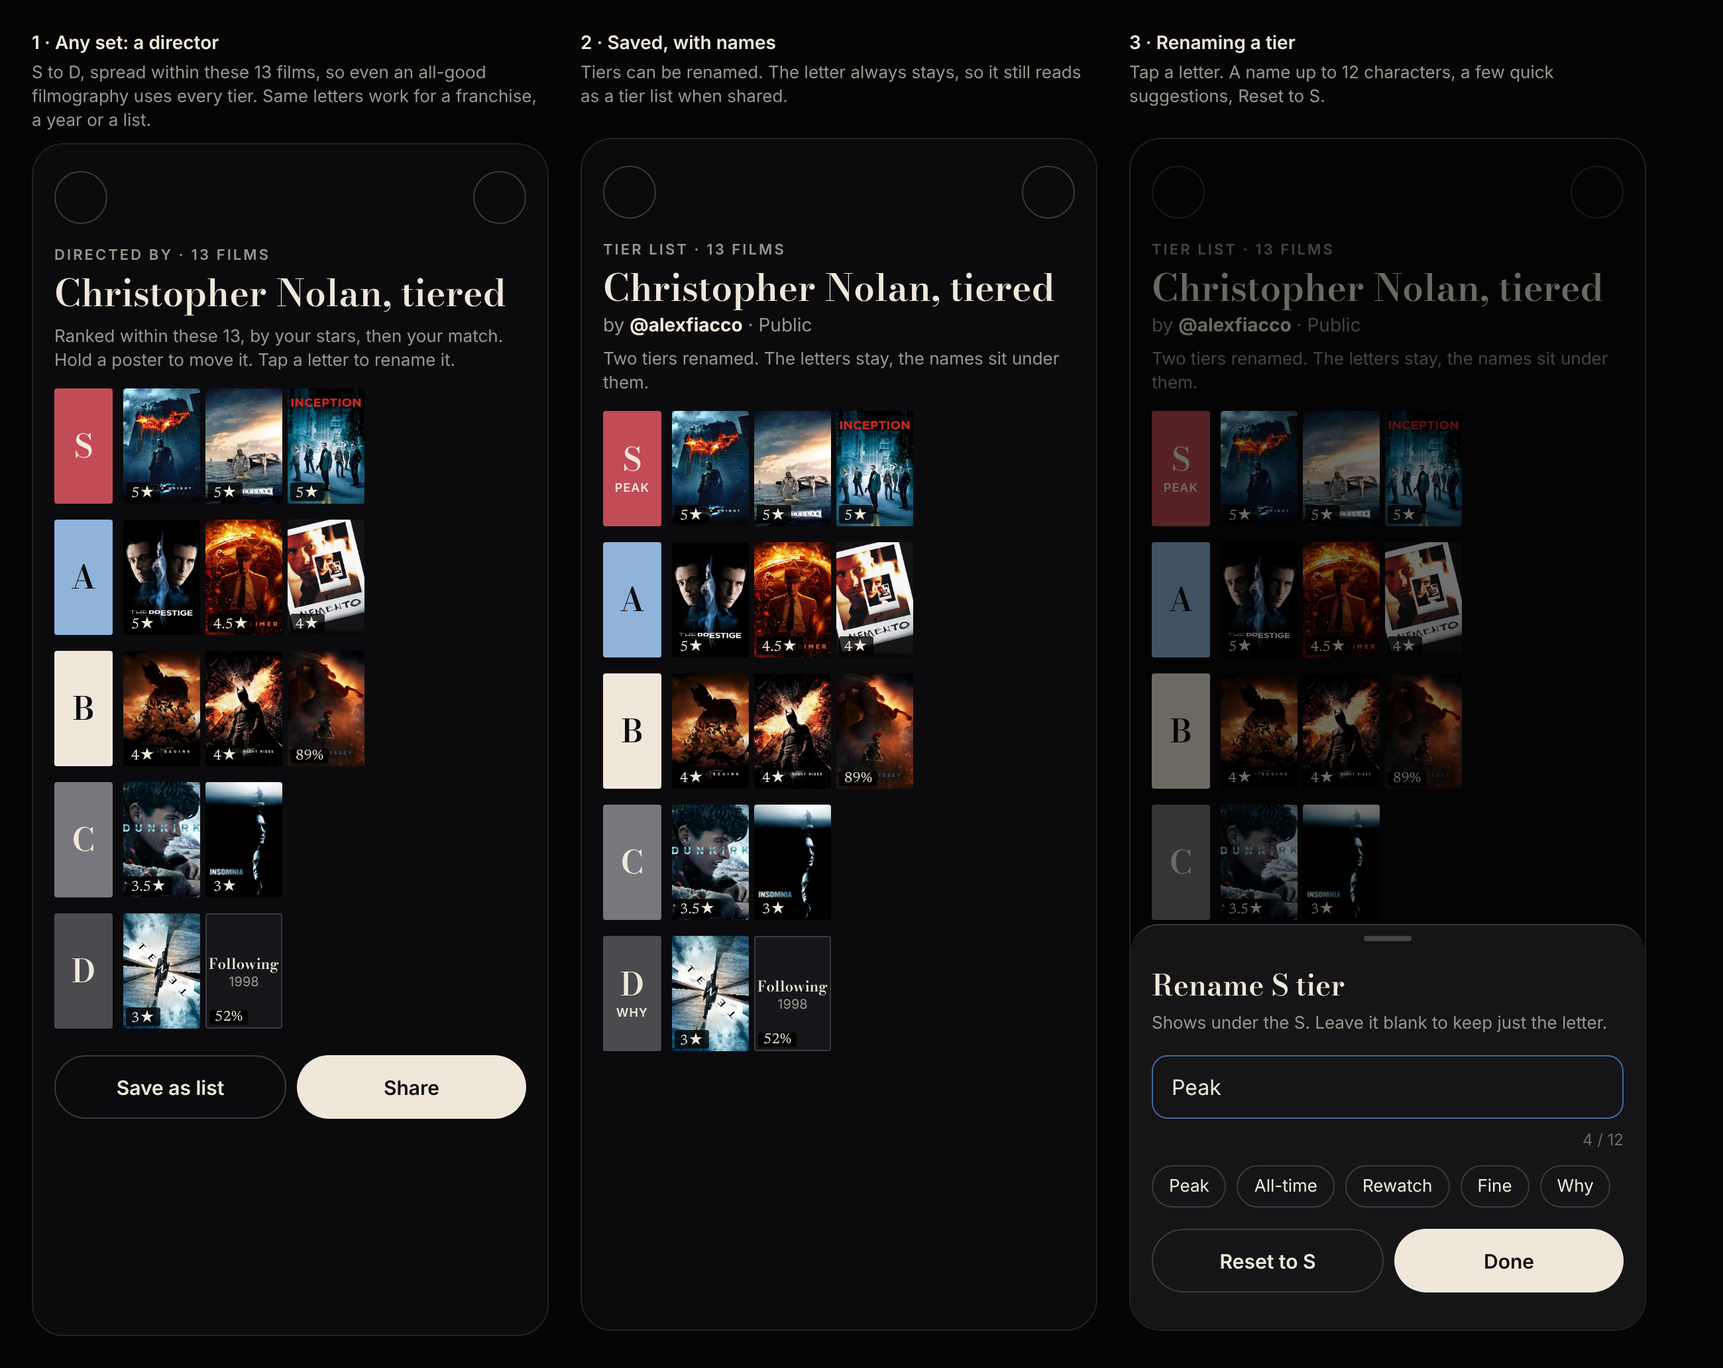
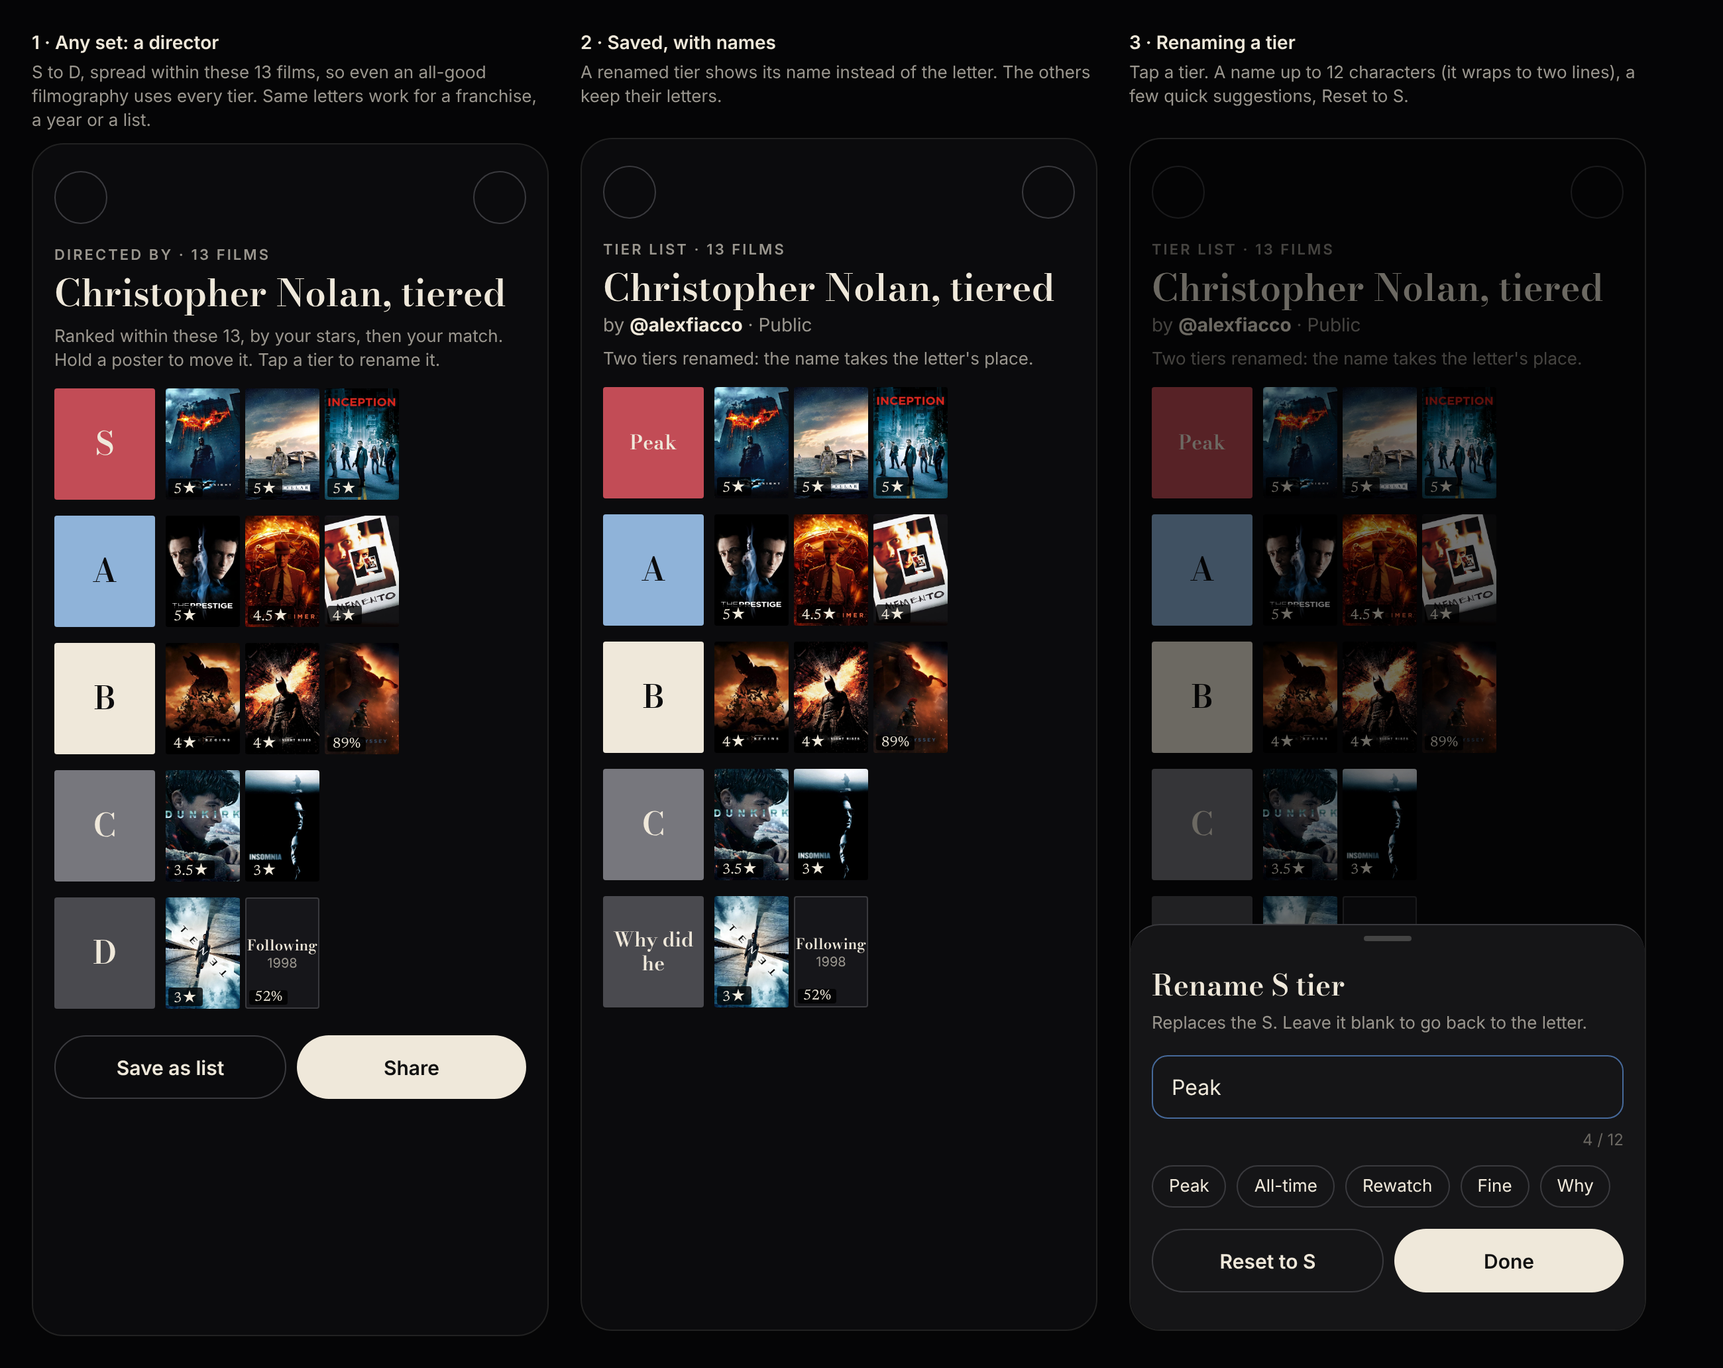
Mock: tier list v5, a renamed tier replaces its letter
Claude-Session: https://claude.ai/code/session_013WRDCFXH8nihP92apJAVW7

diff --git a/mockups/journeys/tier-list-v5.html b/mockups/journeys/tier-list-v5.html
@@ -9,9 +9,9 @@
 .kick{font:600 11px/14px -apple-system;letter-spacing:.14em;color:var(--muted)}h1{font:400 28px/32px BD;margin:6px 0 4px}.by{font-size:14px;color:var(--muted)}.by b{color:var(--ink)}
 .note{font-size:13px;color:var(--muted);margin:8px 0 4px;line-height:18px}
 .tier{display:flex;gap:8px;margin-top:12px;align-items:stretch}
-.lt{width:44px;flex:none;border-radius:2px;display:flex;flex-direction:column;align-items:center;justify-content:center;font:400 24px/28px BD;padding:6px 2px;text-align:center}
-.lt small{display:block;font:600 9px/11px -apple-system;letter-spacing:.06em;margin-top:2px;text-transform:uppercase}
-.ps{display:flex;flex-wrap:wrap;gap:4px;flex:1}.p{width:58px;aspect-ratio:2/3;border-radius:2px;background:#222 center/cover;position:relative}
+.lt{width:76px;flex:none;border-radius:2px;display:flex;flex-direction:column;align-items:center;justify-content:center;font:400 24px/28px BD;padding:6px 2px;text-align:center}
+.lt.w{font:400 15px/18px BD;padding:6px 4px;overflow-wrap:anywhere}
+.ps{display:flex;flex-wrap:wrap;gap:4px;flex:1}.p{width:56px;aspect-ratio:2/3;border-radius:2px;background:#222 center/cover;position:relative}
 .p i{position:absolute;left:2px;bottom:2px;font:400 11px NR;font-style:normal;background:rgba(0,0,0,.78);padding:0 4px;border-radius:2px}
 .p.np{display:flex;flex-direction:column;align-items:center;justify-content:center;font:400 11px BD;text-align:center;border:1px solid var(--line2);background:#16161a}
 .empty{flex:1;border:1px dashed var(--line2);border-radius:6px;display:flex;align-items:center;justify-content:center;font-size:12px;color:var(--faint);min-height:44px}
@@ -23,9 +23,9 @@
 .in{height:48px;border:1px solid #46699a;border-radius:12px;padding:0 14px;display:flex;align-items:center;font-size:16px;margin-bottom:8px}
 .cnt{text-align:right;font-size:12px;color:var(--faint);margin-bottom:12px}
 .sw{display:flex;gap:8px;margin-bottom:16px}.sw span{height:32px;padding:0 12px;border:1px solid var(--line2);border-radius:16px;display:flex;align-items:center;font-size:13px}</style></head><body><div class="grid"><div><p class="cap">1 · Any set: a director<span>S to D, spread within these 13 films, so even an all-good filmography uses every tier. Same letters work for a franchise, a year or a list.</span></p><div class="ph"><div class="page"><div class="top"><div class="c"></div><div class="c"></div></div><div class="kick">DIRECTED BY · 13 FILMS</div><h1>Christopher Nolan, tiered</h1>
-<p class="note">Ranked within these 13, by your stars, then your match. Hold a poster to move it. Tap a letter to rename it.</p><div class="tier"><div class="lt" style="background:#c24c56;color:#efe8da">S</div><div class="ps"><div class="p" style="background-image:url(file:///home/user/CS-Term-Project/mockups/journeys/tier-list-v1-img/darkknight.jpg)"><i>5★</i></div><div class="p" style="background-image:url(file:///home/user/CS-Term-Project/mockups/journeys/tier-list-v1-img/interstellar.jpg)"><i>5★</i></div><div class="p" style="background-image:url(file:///home/user/CS-Term-Project/mockups/journeys/tier-list-v1-img/inception.jpg)"><i>5★</i></div></div></div><div class="tier"><div class="lt" style="background:#8fb3d9;color:#0b0b0d">A</div><div class="ps"><div class="p" style="background-image:url(file:///home/user/CS-Term-Project/mockups/journeys/tier-list-v1-img/prestige.jpg)"><i>5★</i></div><div class="p" style="background-image:url(file:///home/user/CS-Term-Project/mockups/journeys/tier-list-v1-img/oppenheimer.jpg)"><i>4.5★</i></div><div class="p" style="background-image:url(file:///home/user/CS-Term-Project/mockups/journeys/tier-list-v1-img/memento.jpg)"><i>4★</i></div></div></div><div class="tier"><div class="lt" style="background:#efe8da;color:#0b0b0d">B</div><div class="ps"><div class="p" style="background-image:url(file:///home/user/CS-Term-Project/mockups/journeys/tier-list-v1-img/batmanbegins.jpg)"><i>4★</i></div><div class="p" style="background-image:url(file:///home/user/CS-Term-Project/mockups/journeys/tier-list-v1-img/tdkr.jpg)"><i>4★</i></div><div class="p" style="background-image:url(file:///home/user/CS-Term-Project/mockups/journeys/tier-list-v1-img/odyssey.jpg)"><i>89%</i></div></div></div><div class="tier"><div class="lt" style="background:#77777d;color:#efe8da">C</div><div class="ps"><div class="p" style="background-image:url(file:///home/user/CS-Term-Project/mockups/journeys/tier-list-v1-img/dunkirk.jpg)"><i>3.5★</i></div><div class="p" style="background-image:url(file:///home/user/CS-Term-Project/mockups/journeys/tier-list-v1-img/insomnia.jpg)"><i>3★</i></div></div></div><div class="tier"><div class="lt" style="background:#4a4a4f;color:#efe8da">D</div><div class="ps"><div class="p" style="background-image:url(file:///home/user/CS-Term-Project/mockups/journeys/tier-list-v1-img/tenet.jpg)"><i>3★</i></div><div class="p np">Following<br><span style="font:400 10px -apple-system;color:#9a968e">1998</span><i>52%</i></div></div></div>
-<div class="btns"><div class="b">Save as list</div><div class="b cr">Share</div></div></div></div></div><div><p class="cap">2 · Saved, with names<span>Tiers can be renamed. The letter always stays, so it still reads as a tier list when shared.</span></p><div class="ph"><div class="page"><div class="top"><div class="c"></div><div class="c"></div></div><div class="kick">TIER LIST · 13 FILMS</div><h1>Christopher Nolan, tiered</h1><div class="by">by <b>@alexfiacco</b> · Public</div>
-<p class="note">Two tiers renamed. The letters stay, the names sit under them.</p><div class="tier"><div class="lt" style="background:#c24c56;color:#efe8da">S<small>Peak</small></div><div class="ps"><div class="p" style="background-image:url(file:///home/user/CS-Term-Project/mockups/journeys/tier-list-v1-img/darkknight.jpg)"><i>5★</i></div><div class="p" style="background-image:url(file:///home/user/CS-Term-Project/mockups/journeys/tier-list-v1-img/interstellar.jpg)"><i>5★</i></div><div class="p" style="background-image:url(file:///home/user/CS-Term-Project/mockups/journeys/tier-list-v1-img/inception.jpg)"><i>5★</i></div></div></div><div class="tier"><div class="lt" style="background:#8fb3d9;color:#0b0b0d">A</div><div class="ps"><div class="p" style="background-image:url(file:///home/user/CS-Term-Project/mockups/journeys/tier-list-v1-img/prestige.jpg)"><i>5★</i></div><div class="p" style="background-image:url(file:///home/user/CS-Term-Project/mockups/journeys/tier-list-v1-img/oppenheimer.jpg)"><i>4.5★</i></div><div class="p" style="background-image:url(file:///home/user/CS-Term-Project/mockups/journeys/tier-list-v1-img/memento.jpg)"><i>4★</i></div></div></div><div class="tier"><div class="lt" style="background:#efe8da;color:#0b0b0d">B</div><div class="ps"><div class="p" style="background-image:url(file:///home/user/CS-Term-Project/mockups/journeys/tier-list-v1-img/batmanbegins.jpg)"><i>4★</i></div><div class="p" style="background-image:url(file:///home/user/CS-Term-Project/mockups/journeys/tier-list-v1-img/tdkr.jpg)"><i>4★</i></div><div class="p" style="background-image:url(file:///home/user/CS-Term-Project/mockups/journeys/tier-list-v1-img/odyssey.jpg)"><i>89%</i></div></div></div><div class="tier"><div class="lt" style="background:#77777d;color:#efe8da">C</div><div class="ps"><div class="p" style="background-image:url(file:///home/user/CS-Term-Project/mockups/journeys/tier-list-v1-img/dunkirk.jpg)"><i>3.5★</i></div><div class="p" style="background-image:url(file:///home/user/CS-Term-Project/mockups/journeys/tier-list-v1-img/insomnia.jpg)"><i>3★</i></div></div></div><div class="tier"><div class="lt" style="background:#4a4a4f;color:#efe8da">D<small>Why</small></div><div class="ps"><div class="p" style="background-image:url(file:///home/user/CS-Term-Project/mockups/journeys/tier-list-v1-img/tenet.jpg)"><i>3★</i></div><div class="p np">Following<br><span style="font:400 10px -apple-system;color:#9a968e">1998</span><i>52%</i></div></div></div></div></div></div><div><p class="cap">3 · Renaming a tier<span>Tap a letter. A name up to 12 characters, a few quick suggestions, Reset to S.</span></p><div class="ph"><div class="page"><div class="top"><div class="c"></div><div class="c"></div></div><div class="kick">TIER LIST · 13 FILMS</div><h1>Christopher Nolan, tiered</h1><div class="by">by <b>@alexfiacco</b> · Public</div>
-<p class="note">Two tiers renamed. The letters stay, the names sit under them.</p><div class="tier"><div class="lt" style="background:#c24c56;color:#efe8da">S<small>Peak</small></div><div class="ps"><div class="p" style="background-image:url(file:///home/user/CS-Term-Project/mockups/journeys/tier-list-v1-img/darkknight.jpg)"><i>5★</i></div><div class="p" style="background-image:url(file:///home/user/CS-Term-Project/mockups/journeys/tier-list-v1-img/interstellar.jpg)"><i>5★</i></div><div class="p" style="background-image:url(file:///home/user/CS-Term-Project/mockups/journeys/tier-list-v1-img/inception.jpg)"><i>5★</i></div></div></div><div class="tier"><div class="lt" style="background:#8fb3d9;color:#0b0b0d">A</div><div class="ps"><div class="p" style="background-image:url(file:///home/user/CS-Term-Project/mockups/journeys/tier-list-v1-img/prestige.jpg)"><i>5★</i></div><div class="p" style="background-image:url(file:///home/user/CS-Term-Project/mockups/journeys/tier-list-v1-img/oppenheimer.jpg)"><i>4.5★</i></div><div class="p" style="background-image:url(file:///home/user/CS-Term-Project/mockups/journeys/tier-list-v1-img/memento.jpg)"><i>4★</i></div></div></div><div class="tier"><div class="lt" style="background:#efe8da;color:#0b0b0d">B</div><div class="ps"><div class="p" style="background-image:url(file:///home/user/CS-Term-Project/mockups/journeys/tier-list-v1-img/batmanbegins.jpg)"><i>4★</i></div><div class="p" style="background-image:url(file:///home/user/CS-Term-Project/mockups/journeys/tier-list-v1-img/tdkr.jpg)"><i>4★</i></div><div class="p" style="background-image:url(file:///home/user/CS-Term-Project/mockups/journeys/tier-list-v1-img/odyssey.jpg)"><i>89%</i></div></div></div><div class="tier"><div class="lt" style="background:#77777d;color:#efe8da">C</div><div class="ps"><div class="p" style="background-image:url(file:///home/user/CS-Term-Project/mockups/journeys/tier-list-v1-img/dunkirk.jpg)"><i>3.5★</i></div><div class="p" style="background-image:url(file:///home/user/CS-Term-Project/mockups/journeys/tier-list-v1-img/insomnia.jpg)"><i>3★</i></div></div></div><div class="tier"><div class="lt" style="background:#4a4a4f;color:#efe8da">D<small>Why</small></div><div class="ps"><div class="p" style="background-image:url(file:///home/user/CS-Term-Project/mockups/journeys/tier-list-v1-img/tenet.jpg)"><i>3★</i></div><div class="p np">Following<br><span style="font:400 10px -apple-system;color:#9a968e">1998</span><i>52%</i></div></div></div></div><div class="dim"></div><div class="sh"><div class="grab"></div><h2>Rename S tier</h2><p>Shows under the S. Leave it blank to keep just the letter.</p>
+<p class="note">Ranked within these 13, by your stars, then your match. Hold a poster to move it. Tap a tier to rename it.</p><div class="tier"><div class="lt" style="background:#c24c56;color:#efe8da">S</div><div class="ps"><div class="p" style="background-image:url(file:///home/user/CS-Term-Project/mockups/journeys/tier-list-v1-img/darkknight.jpg)"><i>5★</i></div><div class="p" style="background-image:url(file:///home/user/CS-Term-Project/mockups/journeys/tier-list-v1-img/interstellar.jpg)"><i>5★</i></div><div class="p" style="background-image:url(file:///home/user/CS-Term-Project/mockups/journeys/tier-list-v1-img/inception.jpg)"><i>5★</i></div></div></div><div class="tier"><div class="lt" style="background:#8fb3d9;color:#0b0b0d">A</div><div class="ps"><div class="p" style="background-image:url(file:///home/user/CS-Term-Project/mockups/journeys/tier-list-v1-img/prestige.jpg)"><i>5★</i></div><div class="p" style="background-image:url(file:///home/user/CS-Term-Project/mockups/journeys/tier-list-v1-img/oppenheimer.jpg)"><i>4.5★</i></div><div class="p" style="background-image:url(file:///home/user/CS-Term-Project/mockups/journeys/tier-list-v1-img/memento.jpg)"><i>4★</i></div></div></div><div class="tier"><div class="lt" style="background:#efe8da;color:#0b0b0d">B</div><div class="ps"><div class="p" style="background-image:url(file:///home/user/CS-Term-Project/mockups/journeys/tier-list-v1-img/batmanbegins.jpg)"><i>4★</i></div><div class="p" style="background-image:url(file:///home/user/CS-Term-Project/mockups/journeys/tier-list-v1-img/tdkr.jpg)"><i>4★</i></div><div class="p" style="background-image:url(file:///home/user/CS-Term-Project/mockups/journeys/tier-list-v1-img/odyssey.jpg)"><i>89%</i></div></div></div><div class="tier"><div class="lt" style="background:#77777d;color:#efe8da">C</div><div class="ps"><div class="p" style="background-image:url(file:///home/user/CS-Term-Project/mockups/journeys/tier-list-v1-img/dunkirk.jpg)"><i>3.5★</i></div><div class="p" style="background-image:url(file:///home/user/CS-Term-Project/mockups/journeys/tier-list-v1-img/insomnia.jpg)"><i>3★</i></div></div></div><div class="tier"><div class="lt" style="background:#4a4a4f;color:#efe8da">D</div><div class="ps"><div class="p" style="background-image:url(file:///home/user/CS-Term-Project/mockups/journeys/tier-list-v1-img/tenet.jpg)"><i>3★</i></div><div class="p np">Following<br><span style="font:400 10px -apple-system;color:#9a968e">1998</span><i>52%</i></div></div></div>
+<div class="btns"><div class="b">Save as list</div><div class="b cr">Share</div></div></div></div></div><div><p class="cap">2 · Saved, with names<span>A renamed tier shows its name instead of the letter. The others keep their letters.</span></p><div class="ph"><div class="page"><div class="top"><div class="c"></div><div class="c"></div></div><div class="kick">TIER LIST · 13 FILMS</div><h1>Christopher Nolan, tiered</h1><div class="by">by <b>@alexfiacco</b> · Public</div>
+<p class="note">Two tiers renamed: the name takes the letter's place.</p><div class="tier"><div class="lt w" style="background:#c24c56;color:#efe8da">Peak</div><div class="ps"><div class="p" style="background-image:url(file:///home/user/CS-Term-Project/mockups/journeys/tier-list-v1-img/darkknight.jpg)"><i>5★</i></div><div class="p" style="background-image:url(file:///home/user/CS-Term-Project/mockups/journeys/tier-list-v1-img/interstellar.jpg)"><i>5★</i></div><div class="p" style="background-image:url(file:///home/user/CS-Term-Project/mockups/journeys/tier-list-v1-img/inception.jpg)"><i>5★</i></div></div></div><div class="tier"><div class="lt" style="background:#8fb3d9;color:#0b0b0d">A</div><div class="ps"><div class="p" style="background-image:url(file:///home/user/CS-Term-Project/mockups/journeys/tier-list-v1-img/prestige.jpg)"><i>5★</i></div><div class="p" style="background-image:url(file:///home/user/CS-Term-Project/mockups/journeys/tier-list-v1-img/oppenheimer.jpg)"><i>4.5★</i></div><div class="p" style="background-image:url(file:///home/user/CS-Term-Project/mockups/journeys/tier-list-v1-img/memento.jpg)"><i>4★</i></div></div></div><div class="tier"><div class="lt" style="background:#efe8da;color:#0b0b0d">B</div><div class="ps"><div class="p" style="background-image:url(file:///home/user/CS-Term-Project/mockups/journeys/tier-list-v1-img/batmanbegins.jpg)"><i>4★</i></div><div class="p" style="background-image:url(file:///home/user/CS-Term-Project/mockups/journeys/tier-list-v1-img/tdkr.jpg)"><i>4★</i></div><div class="p" style="background-image:url(file:///home/user/CS-Term-Project/mockups/journeys/tier-list-v1-img/odyssey.jpg)"><i>89%</i></div></div></div><div class="tier"><div class="lt" style="background:#77777d;color:#efe8da">C</div><div class="ps"><div class="p" style="background-image:url(file:///home/user/CS-Term-Project/mockups/journeys/tier-list-v1-img/dunkirk.jpg)"><i>3.5★</i></div><div class="p" style="background-image:url(file:///home/user/CS-Term-Project/mockups/journeys/tier-list-v1-img/insomnia.jpg)"><i>3★</i></div></div></div><div class="tier"><div class="lt w" style="background:#4a4a4f;color:#efe8da">Why did he</div><div class="ps"><div class="p" style="background-image:url(file:///home/user/CS-Term-Project/mockups/journeys/tier-list-v1-img/tenet.jpg)"><i>3★</i></div><div class="p np">Following<br><span style="font:400 10px -apple-system;color:#9a968e">1998</span><i>52%</i></div></div></div></div></div></div><div><p class="cap">3 · Renaming a tier<span>Tap a tier. A name up to 12 characters (it wraps to two lines), a few quick suggestions, Reset to S.</span></p><div class="ph"><div class="page"><div class="top"><div class="c"></div><div class="c"></div></div><div class="kick">TIER LIST · 13 FILMS</div><h1>Christopher Nolan, tiered</h1><div class="by">by <b>@alexfiacco</b> · Public</div>
+<p class="note">Two tiers renamed: the name takes the letter's place.</p><div class="tier"><div class="lt w" style="background:#c24c56;color:#efe8da">Peak</div><div class="ps"><div class="p" style="background-image:url(file:///home/user/CS-Term-Project/mockups/journeys/tier-list-v1-img/darkknight.jpg)"><i>5★</i></div><div class="p" style="background-image:url(file:///home/user/CS-Term-Project/mockups/journeys/tier-list-v1-img/interstellar.jpg)"><i>5★</i></div><div class="p" style="background-image:url(file:///home/user/CS-Term-Project/mockups/journeys/tier-list-v1-img/inception.jpg)"><i>5★</i></div></div></div><div class="tier"><div class="lt" style="background:#8fb3d9;color:#0b0b0d">A</div><div class="ps"><div class="p" style="background-image:url(file:///home/user/CS-Term-Project/mockups/journeys/tier-list-v1-img/prestige.jpg)"><i>5★</i></div><div class="p" style="background-image:url(file:///home/user/CS-Term-Project/mockups/journeys/tier-list-v1-img/oppenheimer.jpg)"><i>4.5★</i></div><div class="p" style="background-image:url(file:///home/user/CS-Term-Project/mockups/journeys/tier-list-v1-img/memento.jpg)"><i>4★</i></div></div></div><div class="tier"><div class="lt" style="background:#efe8da;color:#0b0b0d">B</div><div class="ps"><div class="p" style="background-image:url(file:///home/user/CS-Term-Project/mockups/journeys/tier-list-v1-img/batmanbegins.jpg)"><i>4★</i></div><div class="p" style="background-image:url(file:///home/user/CS-Term-Project/mockups/journeys/tier-list-v1-img/tdkr.jpg)"><i>4★</i></div><div class="p" style="background-image:url(file:///home/user/CS-Term-Project/mockups/journeys/tier-list-v1-img/odyssey.jpg)"><i>89%</i></div></div></div><div class="tier"><div class="lt" style="background:#77777d;color:#efe8da">C</div><div class="ps"><div class="p" style="background-image:url(file:///home/user/CS-Term-Project/mockups/journeys/tier-list-v1-img/dunkirk.jpg)"><i>3.5★</i></div><div class="p" style="background-image:url(file:///home/user/CS-Term-Project/mockups/journeys/tier-list-v1-img/insomnia.jpg)"><i>3★</i></div></div></div><div class="tier"><div class="lt w" style="background:#4a4a4f;color:#efe8da">Why did he</div><div class="ps"><div class="p" style="background-image:url(file:///home/user/CS-Term-Project/mockups/journeys/tier-list-v1-img/tenet.jpg)"><i>3★</i></div><div class="p np">Following<br><span style="font:400 10px -apple-system;color:#9a968e">1998</span><i>52%</i></div></div></div></div><div class="dim"></div><div class="sh"><div class="grab"></div><h2>Rename S tier</h2><p>Replaces the S. Leave it blank to go back to the letter.</p>
 <div class="in">Peak</div><div class="cnt">4 / 12</div><div class="sw"><span>Peak</span><span>All-time</span><span>Rewatch</span><span>Fine</span><span>Why</span></div>
 <div class="btns" style="margin-top:0"><div class="b">Reset to S</div><div class="b cr">Done</div></div></div></div></div></div></body></html>
